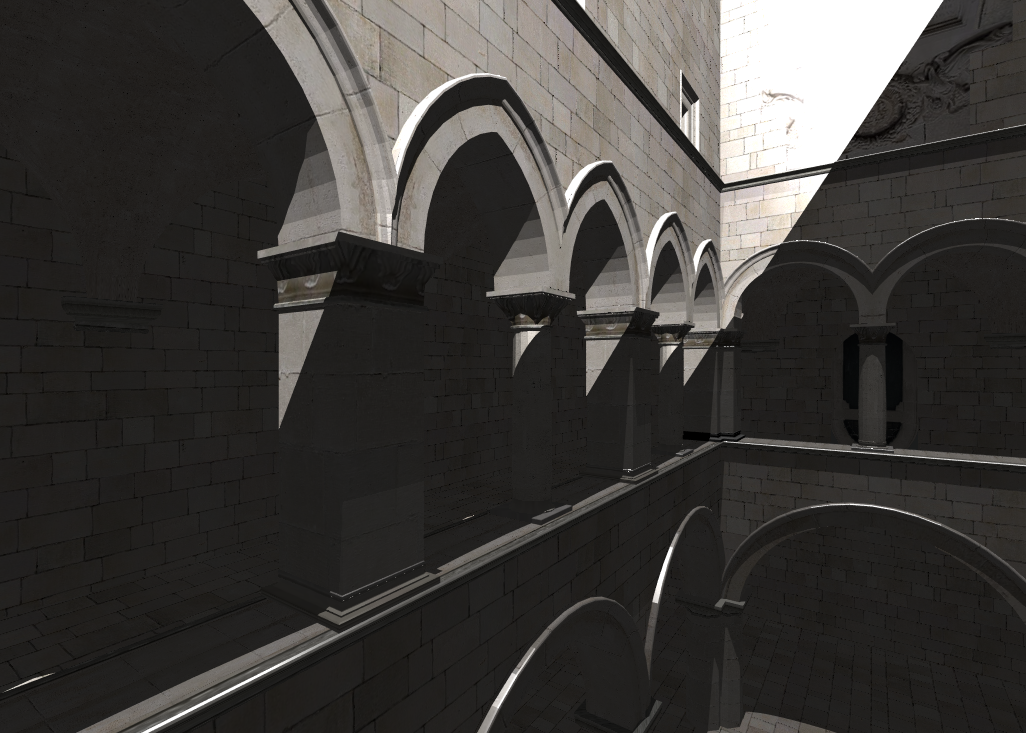
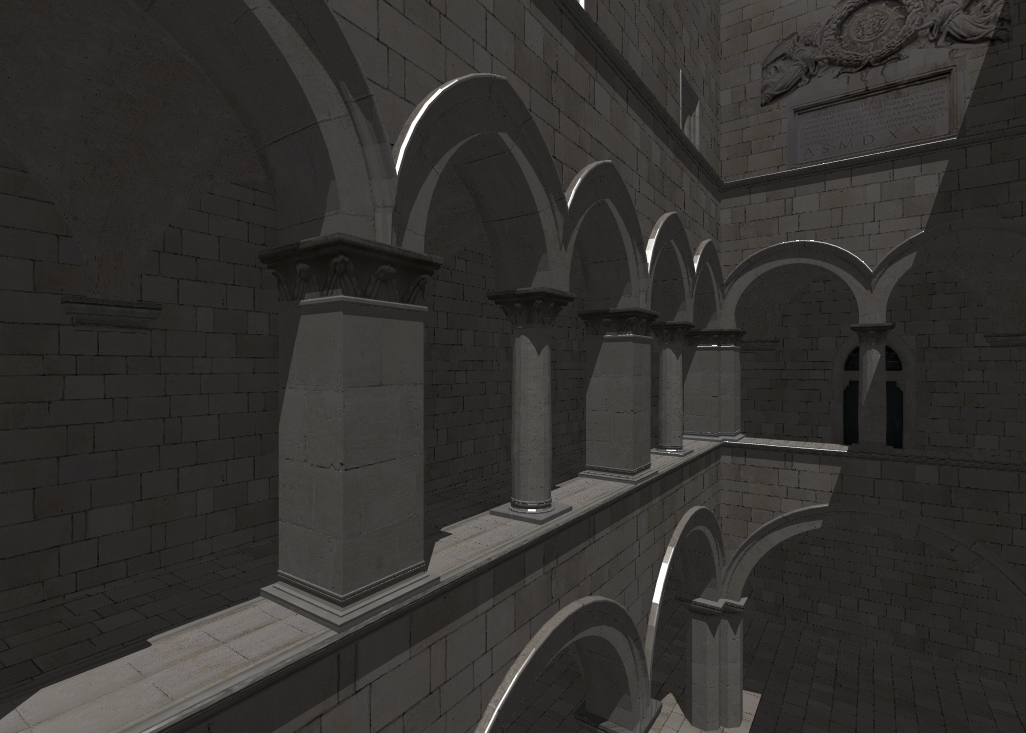
Fixed Ambient light specular contribution bug
Renders some more pretty pictures too.

diff --git a/Rendering/Renderers/RayTracingRenderer.cs b/Rendering/Renderers/RayTracingRenderer.cs
@@ -372,26 +372,23 @@ namespace Raytracer.Rendering.Renderers
 
                 if (lightColour.Brightness > 0 && lightCos > 0.0 && visibilityTester.Unoccluded(this))
                 {
-                    if (pointToLight == Vector.Zero)
-                        pointToLight = (Vector)(-normal);
-
                     colour += (material.Diffuse * lightColour) * lightCos;
-                }
 
-                if (material.Specularity > 0.0f)
-                {
-                    // calculate specular highlights
-                    var vReflect = CalculateReflectedRay(pointToLight, normal);
-
-                    // normalise the vector
-                    vReflect = vReflect.Normalize();
-
-                    var fSpecular = Vector.DotProduct(vReflect, eyeDirection);
-
-                    if (fSpecular > 0.0f)
+                    if (material.Specularity > 0.0f && light.Specular())
                     {
-                        var power = (double)Math.Pow(fSpecular, material.Specularity);
-                        colour += lightColour * material.SpecularExponent * power;
+                        // calculate specular highlights
+                        var vReflect = CalculateReflectedRay(pointToLight, normal);
+
+                        // normalise the vector
+                        vReflect = vReflect.Normalize();
+
+                        var fSpecular = Vector.DotProduct(vReflect, eyeDirection);
+
+                        if (fSpecular > 0.0f)
+                        {
+                            var power = (double)Math.Pow(fSpecular, material.Specularity);
+                            colour += lightColour * material.SpecularExponent * power;
+                        }
                     }
                 }
             }

diff --git a/Rendering/Lights/DistantLight.cs b/Rendering/Lights/DistantLight.cs
@@ -11,7 +11,7 @@ namespace Raytracer.Rendering.Lights
         public DistantLight(Colour colour, Transform transform)
             : base(colour, transform)
         {
-            Dir = _transform.ToObjectSpace(new Vector(0.0, 1.0, 0.0));
+            Dir = _transform.ToObjectSpace(new Vector(0, 1, 0));
         }
 
         public override Colour Sample(Point hitPoint, Normal normalAtHitPoint, ref Vector pointToLight, ref VisibilityTester visibilityTester)

diff --git a/Rendering/FileTypes/VBRayScene/Savers/ColourMaterialSaver.cs b/Rendering/FileTypes/VBRayScene/Savers/ColourMaterialSaver.cs
@@ -24,9 +24,6 @@ namespace Raytracer.Rendering.FileTypes.VBRayScene.Savers
             file.WriteLine("(");
             file.WriteLine("\t\"{0}\",", mat.Name);
 
-            SaveColourComponent(file, mat.Ambient);
-            file.WriteLine(", 'Ambient'");
-
             SaveColourComponent(file, mat.Diffuse);
             file.WriteLine(", 'Diffuse'");
 

diff --git a/Rendering/Core/Light.cs b/Rendering/Core/Light.cs
@@ -17,5 +17,10 @@ namespace Raytracer.Rendering.Core
         }
 
         public abstract Colour Sample(Point hitPoint, Normal normalAtHitPoint, ref Vector pointToLight, ref VisibilityTester visibilityTester);
+
+        public virtual bool Specular()
+        {
+            return true;
+        }
     }
 }

diff --git a/Rendering/Lights/AmbientLight.cs b/Rendering/Lights/AmbientLight.cs
@@ -17,5 +17,10 @@ namespace Raytracer.Rendering.Lights
             pointToLight = (Vector)(normalAtHitPoint);
             return Intensity; 
         }
+
+        public override bool Specular()
+        {
+            return false;
+        }
     }
 }
